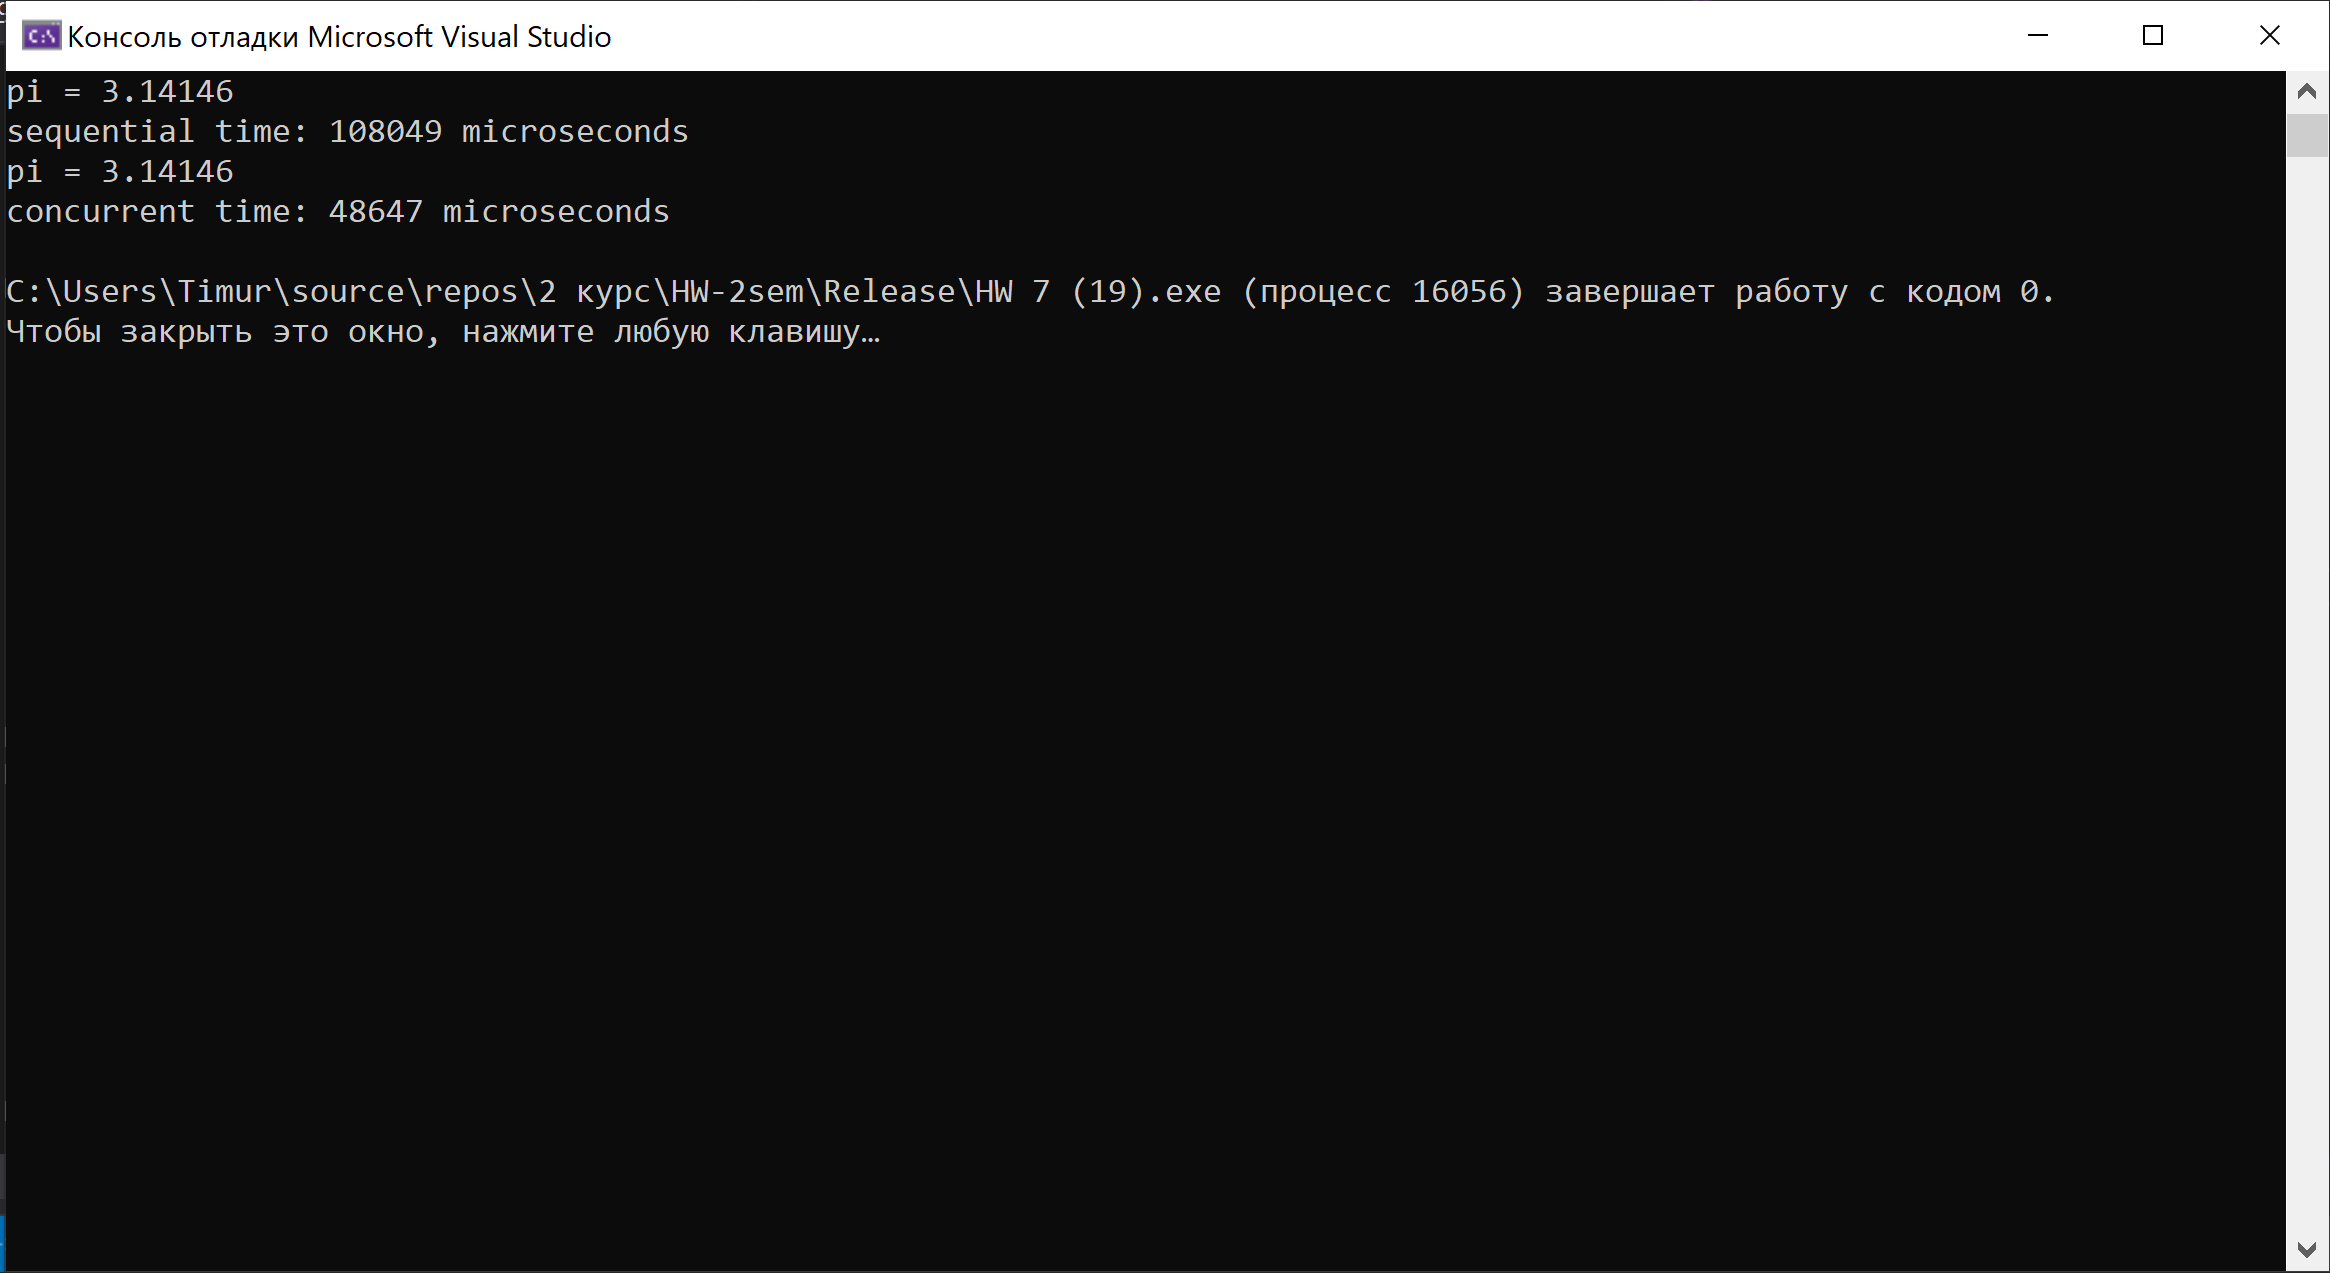
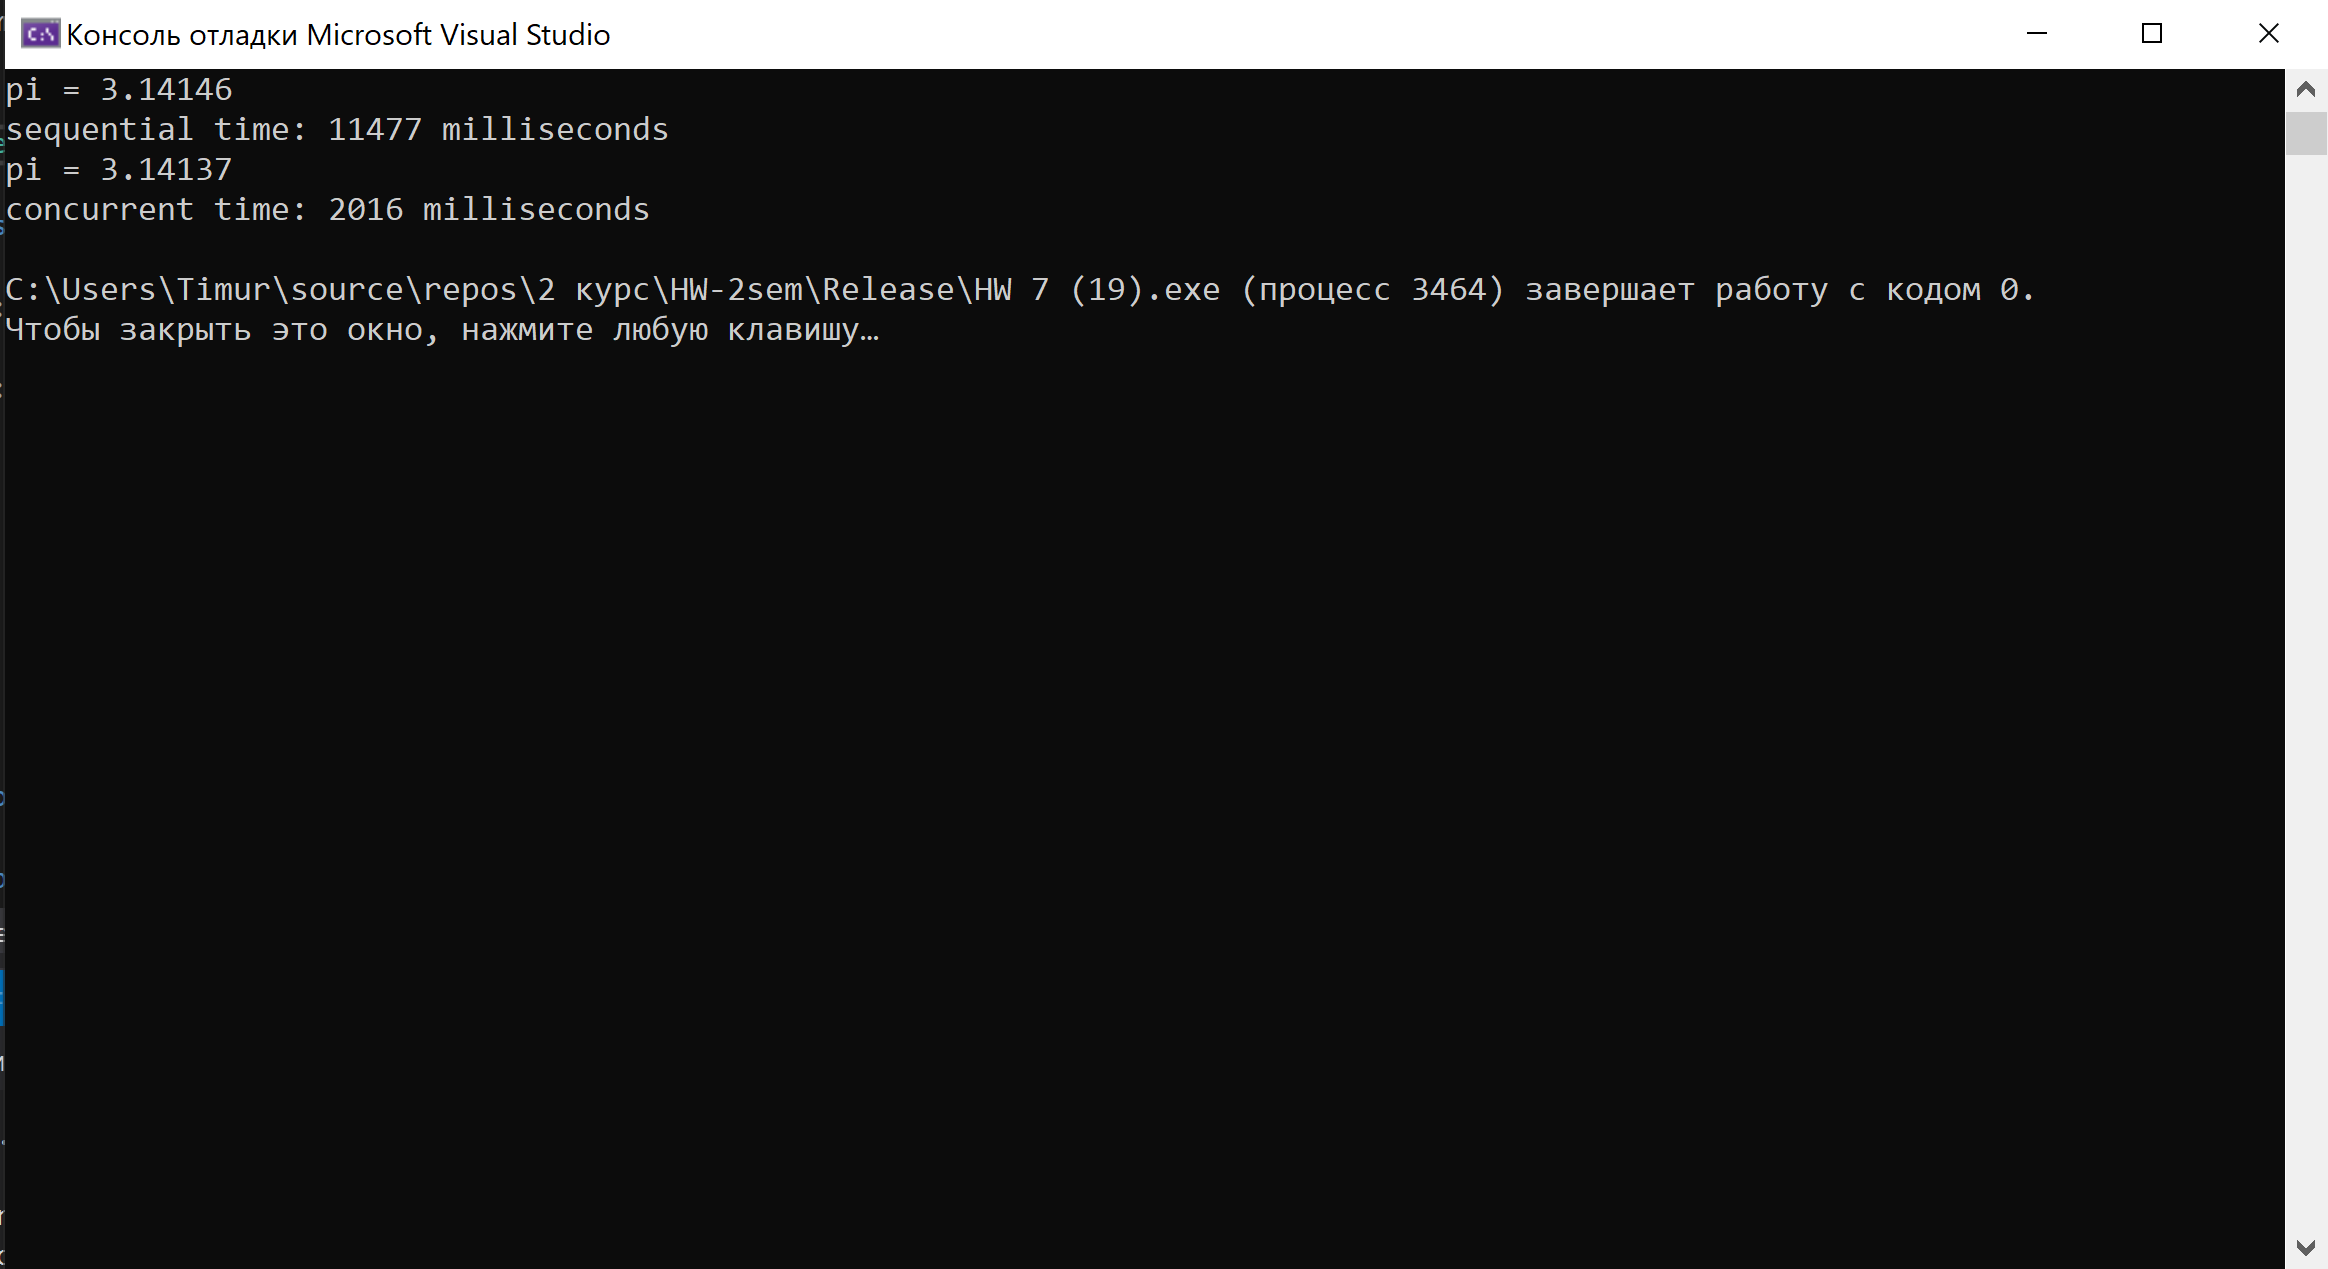
fixed 7.1 solution

diff --git a/HW 7 (19)/7.1.cpp b/HW 7 (19)/7.1.cpp
@@ -62,12 +62,9 @@ std::size_t parallel_count_if(Iterator first, Iterator last, F predicate)
 		return 0U;
 	}
 
-	const std::size_t min_per_thread = 32U;
-	const std::size_t max_threads =	(length + min_per_thread - 1U) / min_per_thread;
-
 	const std::size_t hardware_threads = std::thread::hardware_concurrency();
 
-	const std::size_t num_threads =	std::min(hardware_threads != 0 ? hardware_threads : 2, max_threads);
+	const std::size_t num_threads =	(hardware_threads != 0 ? hardware_threads : 2);
 
 	const std::size_t block_size = length / num_threads;
 
@@ -104,43 +101,97 @@ std::size_t parallel_count_if(Iterator first, Iterator last, F predicate)
 	return result;
 }
 
+template < typename Iterator, typename Distr_t >
+struct point_gen_block
+{
+	void operator()(Iterator first, Iterator last, Distr_t distribution)
+	{
+		std::mt19937_64 generator(std::chrono::system_clock().now().time_since_epoch().count());
+		std::for_each(first, last, [&generator, &distribution](auto& point)
+			{point.first = distribution(generator); point.second = distribution(generator);});
+	}
+};
+
+template < typename Iterator, typename Distr_t >
+void parallel_point_gen(Iterator first, Iterator last, Distr_t distribution)
+{
+	const std::size_t length = std::distance(first, last);
+
+	const std::size_t hardware_threads = std::thread::hardware_concurrency();
+	const std::size_t num_threads = (hardware_threads != 0 ? hardware_threads : 2);
+
+	const std::size_t block_size = length / num_threads;
+
+	std::vector < std::future < void > > futures(num_threads - 1);
+	std::vector < std::thread > threads(num_threads - 1);
+
+	Threads_Guard guard(threads);
+
+	Iterator block_start = first;
+
+	for (std::size_t i = 0; i < (num_threads - 1); ++i)
+	{
+		Iterator block_end = block_start;
+		std::advance(block_end, block_size);
+
+		std::packaged_task < void (Iterator, Iterator, Distr_t) >
+			task{ point_gen_block < Iterator, Distr_t >() };
+
+		futures[i] = task.get_future();
+		threads[i] = std::thread(std::move(task), block_start, block_end, distribution);
+		block_start = block_end;
+	}
+
+	point_gen_block < Iterator, Distr_t >()(block_start, last, distribution);
+
+	for (std::size_t i = 0; i < (num_threads - 1); ++i)
+	{
+		futures[i].get();
+	}
+}
+
 int main()
 {
-	const unsigned long long seed = 482001Ui64;
-	const double radius = 1.0;
-
-	std::mt19937_64 mt(seed);
-	std::uniform_real_distribution <> urd(0.0, radius);
-	
+	const double radius = 1.0;	
 	const std::size_t size = 80'000'000U;
 
-	std::vector<std::pair<double, double>> points(size, { 0.0, 0.0 });
-
-	{
-		for (auto& point : points)
-		{
-			point.first = urd(mt);
-			point.second = urd(mt);
-		}
-	}
+	std::uniform_real_distribution <> urd(0.0, radius);
 
 	auto lambda = [](std::pair<double, double>& point) {return (point.first * point.first + point.second * point.second < 1.0); };
 	
 	{
-		Timer<std::chrono::microseconds> sequential_time("sequential time");
+		Timer<std::chrono::milliseconds> sequential_time("sequential time");
+
+		const unsigned long long seed = 482001Ull;
+
+		std::mt19937_64 mt(seed);
+
+		std::vector<std::pair<double, double>> points(size, { 0.0, 0.0 });
+
+		{
+			for (auto& point : points)
+			{
+				point.first = urd(mt);
+				point.second = urd(mt);
+			}
+		}
 
 		auto inside = std::count_if(std::begin(points), std::end(points), lambda);		
 
-		double pi = (2.0 * radius) * (2.0 * radius) * inside / size;
+		double pi = 4.0 * radius * radius * inside / size;
 		std::cout << "pi = " << pi << '\n';
 	}
 
 	{
-		Timer<std::chrono::microseconds> concurrent_time("concurrent time");		
+		Timer<std::chrono::milliseconds> concurrent_time("concurrent time");
+
+		std::vector<std::pair<double, double>> points(size, { 0.0, 0.0 });
+
+		parallel_point_gen(std::begin(points), std::end(points), urd);
 
 		auto inside = parallel_count_if(std::begin(points), std::end(points), lambda);
 
-		double pi = (2.0 * radius) * (2.0 * radius) * inside / size;
+		double pi = 4.0 * radius * radius * inside / size;
 		std::cout << "pi = " << pi << '\n';
 	}
 
